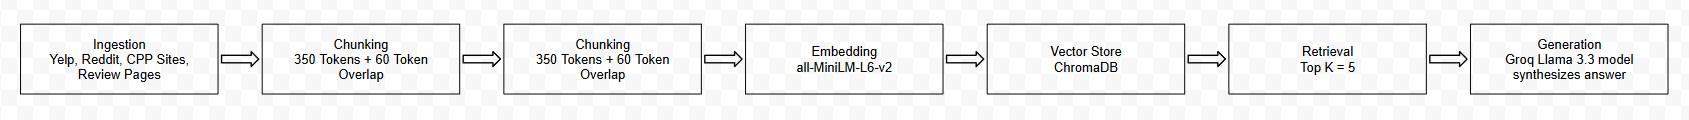
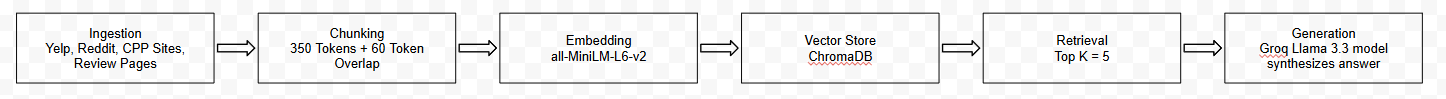
Fill in README and fix architecture

Changed region(s): [[0.0, 0.1818, 0.9959, 0.8485], [0.0, 0.1212, 0.9959, 0.1515], [0.1867, 0.5758, 0.2801, 0.697]]

diff --git a/README.md b/README.md
@@ -47,13 +47,13 @@ Best dining options at Cal Poly Pomona - This is useful because there may be inc
      - Any preprocessing you did before chunking (e.g., stripping HTML, removing headers)
      - What your final chunk count was across all documents -->
 
-**Chunk size:** 
+**Chunk size:** 350 Tokens
 
-**Overlap:**
+**Overlap:** 50 Tokens
 
-**Why these choices fit your documents:**
+**Why these choices fit your documents:** I chose a chunk size of 350 tokens becuase it felt like a balance to preserve context while also having precision. Since most of the websites had short content due to it mainly being composed of review pages, social media posts, and some official university websites, this token size felt like a good balance to retain complete opinions and dining experiences while also being able to preserve information for the more text heavy websites. An overlap of 50 tokens would also help retain that important information.
 
-**Final chunk count:**
+**Final chunk count:** 13
 
 ---
 
@@ -65,9 +65,9 @@ Best dining options at Cal Poly Pomona - This is useful because there may be inc
      Consider: context length limits, multilingual support, accuracy on domain-specific text,
      latency, and local vs. API-hosted. -->
 
-**Model used:**
+**Model used:** all-MiniLM-L6-v2 via sentence-transformers
 
-**Production tradeoff reflection:**
+**Production tradeoff reflection:** The tradeoffs in choosing a different embedding model depends on either prioritizing efficiency or accuracy. If we chose a more lightweight model, it would be more efficient and fast making it good for a small-scale RAG system, but it may not be as good with semantic understanding which is a very important aspect due to our domain and sources being heavily based on semantics. A more advanced embedding model would improve semantic undertsanding which would work great for this, but it would introduce higher latency and cost.
 
 ---
 
@@ -80,9 +80,9 @@ Best dining options at Cal Poly Pomona - This is useful because there may be inc
      Do not just say "I told it to use the documents" — show the actual instruction or explain
      the mechanism. -->
 
-**System prompt grounding instruction:**
+**System prompt grounding instruction:** The system enforces grounding by instructing the LLM to use only the retrieved context and to explicitly say it lacks information if the answer is not present in the provided chunks.
 
-**How source attribution is surfaced in the response:**
+**How source attribution is surfaced in the response:** Source attribution is handled outside the model by attaching source metadata to each retrieved chunk and displaying the deduplicated list of source URLs in the UI alongside the generated answer.
 
 ---
 
@@ -94,11 +94,11 @@ Best dining options at Cal Poly Pomona - This is useful because there may be inc
 
 | # | Question | Expected answer | System response (summarized) | Retrieval quality | Response accuracy |
 |---|----------|-----------------|------------------------------|-------------------|-------------------|
-| 1 | | | | | |
-| 2 | | | | | |
-| 3 | | | | | |
-| 4 | | | | | |
-| 5 | | | | | |
+| 1 | What do students say about the wait times at Centerpointe Dining Commons during lunch hours? | Students usually report that there usually isn't any rush lines and even at its peak hours the lines are very minor to none. | States it does not have enough information but mentions an approximate 10 minute wait time for sushi | Partially Relevant | Inaccurate |
+| 2 | Is the meal plan at Cal Poly Pomona considered worth it by students? | Mixed opinions; As it is a required purchase in order to live on campus, some feel as though they are wasting money they could use on food they actually want while others like it for the convenience. | Says it is well worth the money for at least some students | Relevant | Accurate |
+| 3 | What are common complaints about campus dining at CPP? | Common complaints include the lack of dining options, inconsistent food quality, and long wait times at the fast food places during peak hours. | Not enought information/doesn't mention complaints | Off-target | Inaccurate |
+| 4 | Where do students recommend eating near Cal Poly Pomona off-campus? | Students usually recommend the nearby fast food or local restaurants in Pomona, West Covina, or Diamond Bar as better alternatives to campus dining. | Not enough information, says it provides dining options but not where students recommend | Partially relevant | Inaccurate |
+| 5 | How do students compare the Centerpointe Dining Commons to other options on campus? | Students do like the price and buffet nature of Centerpointe; however, students often prefer the other on campus restaurants like Panda Express and Qdoba. | Not enough information/no direct comparison | Off-target | Inaccurate |
 
 **Retrieval quality:** Relevant / Partially relevant / Off-target  
 **Response accuracy:** Accurate / Partially accurate / Inaccurate
@@ -118,13 +118,13 @@ Best dining options at Cal Poly Pomona - This is useful because there may be inc
      "The embedding model treated the professor's nickname as out-of-vocabulary and returned
      results from an unrelated review" is an explanation. -->
 
-**Question that failed:**
+**Question that failed:** What are common complaints about campus dining at CPP?
 
-**What the system returned:**
+**What the system returned:** The system failed to retrive complaint-specific chunks and responded with not enough information.
 
-**Root cause (tied to a specific pipeline stage):**
+**Root cause (tied to a specific pipeline stage):** The failure originates from the Ingest and Chunking stage as it failed to properly scrape and chunk the right information from sties that provide complaints
 
-**What you would change to fix it:**
+**What you would change to fix it:** Fix the scraper and increase the chunk overlap to retain more important information
 
 ---
 
@@ -133,9 +133,9 @@ Best dining options at Cal Poly Pomona - This is useful because there may be inc
 <!-- Reflect on how planning.md shaped your implementation.
      Answer both questions with at least 2–3 sentences each. -->
 
-**One way the spec helped you during implementation:**
+**One way the spec helped you during implementation:** The pipeline design in planning.md guided me on how each stage is split within the RAG pipeline and also helped me test each stage. Defining a chunk size and overlap within planning.md also helped since it helped me avoid inconsistent splitting and overall helped me be more structured within this process.
 
-**One way your implementation diverged from the spec, and why:**
+**One way your implementation diverged from the spec, and why:** During my implementation, I adjusted teh lceaning rules and filtering logic to remove irrelevant text. I also reduced the reliance from some of the social media sources since they didn't contribute any meaningful and retrievable text.
 
 ---
 
@@ -152,12 +152,12 @@ Best dining options at Cal Poly Pomona - This is useful because there may be inc
 
 **Instance 1**
 
-- *What I gave the AI:*
-- *What it produced:*
-- *What I changed or overrode:*
+- *What I gave the AI:* My chunking strategy from planning.md and sample scraped dining reviews
+- *What it produced:* A basic chunking function with fixed-size splits (400 chars)
+- *What I changed or overrode:* I adjusted the chunking to use word-based splitting rather than character-based and increased the overlap to 80 words
 
 **Instance 2**
 
-- *What I gave the AI:*
-- *What it produced:*
-- *What I changed or overrode:*
+- *What I gave the AI:* My pipeline design for retrieval and embedding
+- *What it produced:* A working RAG architecture suing sentence-transformers and ChromaDB but without source tracking
+- *What I changed or overrode:* I made it so that the pipeline would have attatched metadata to every chunk so I can trace the answers back to their original source
